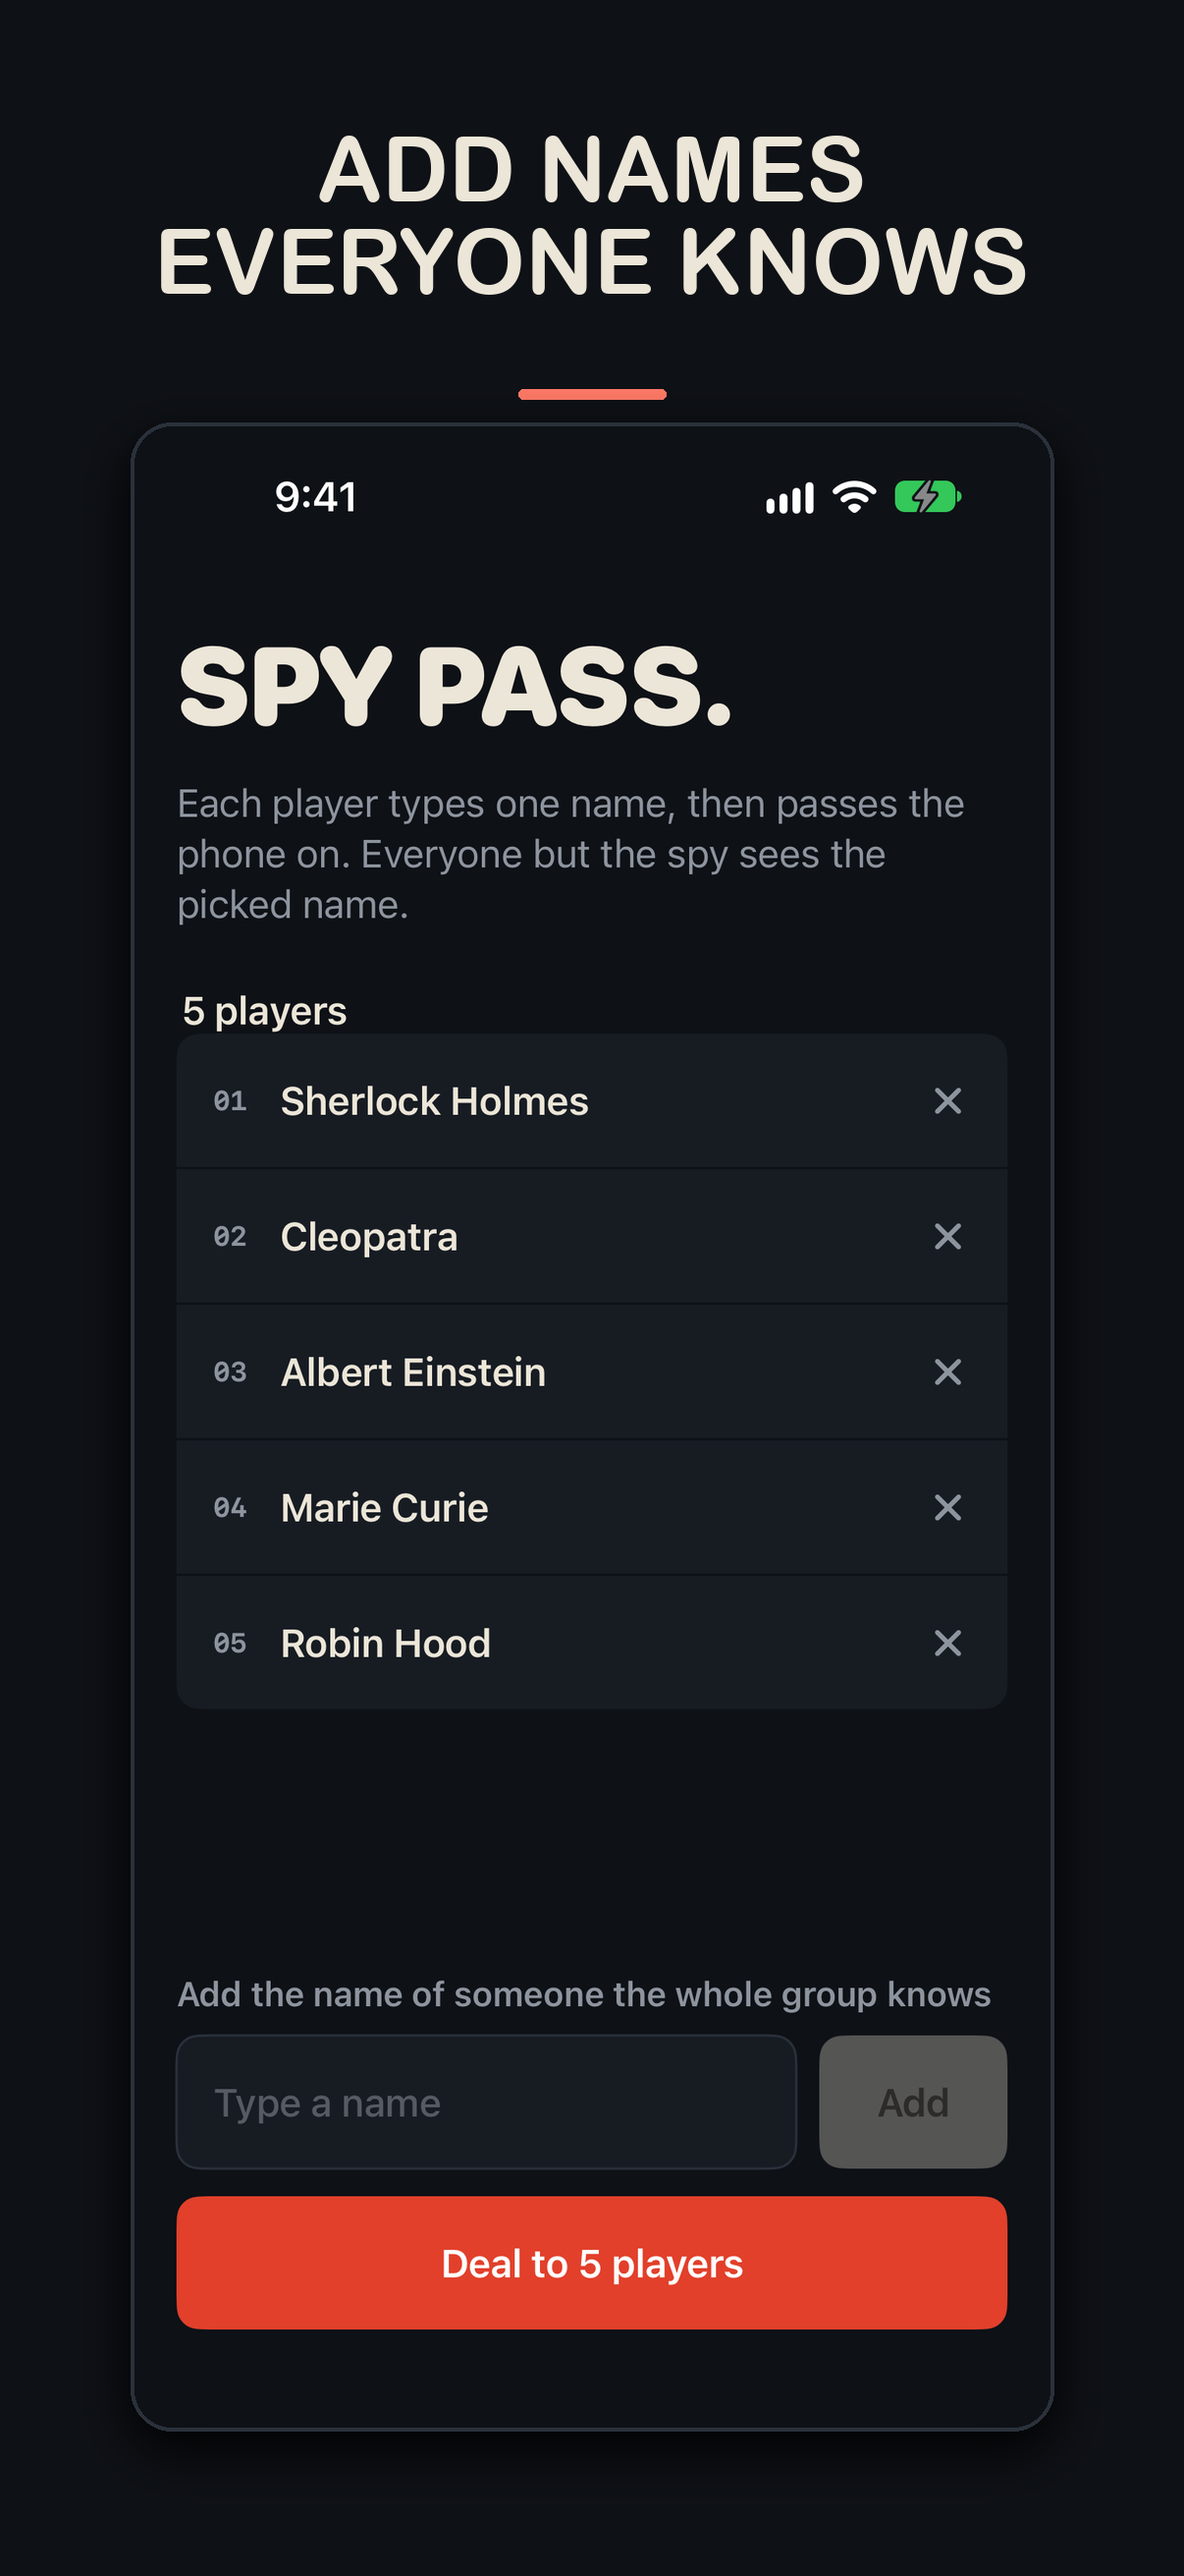
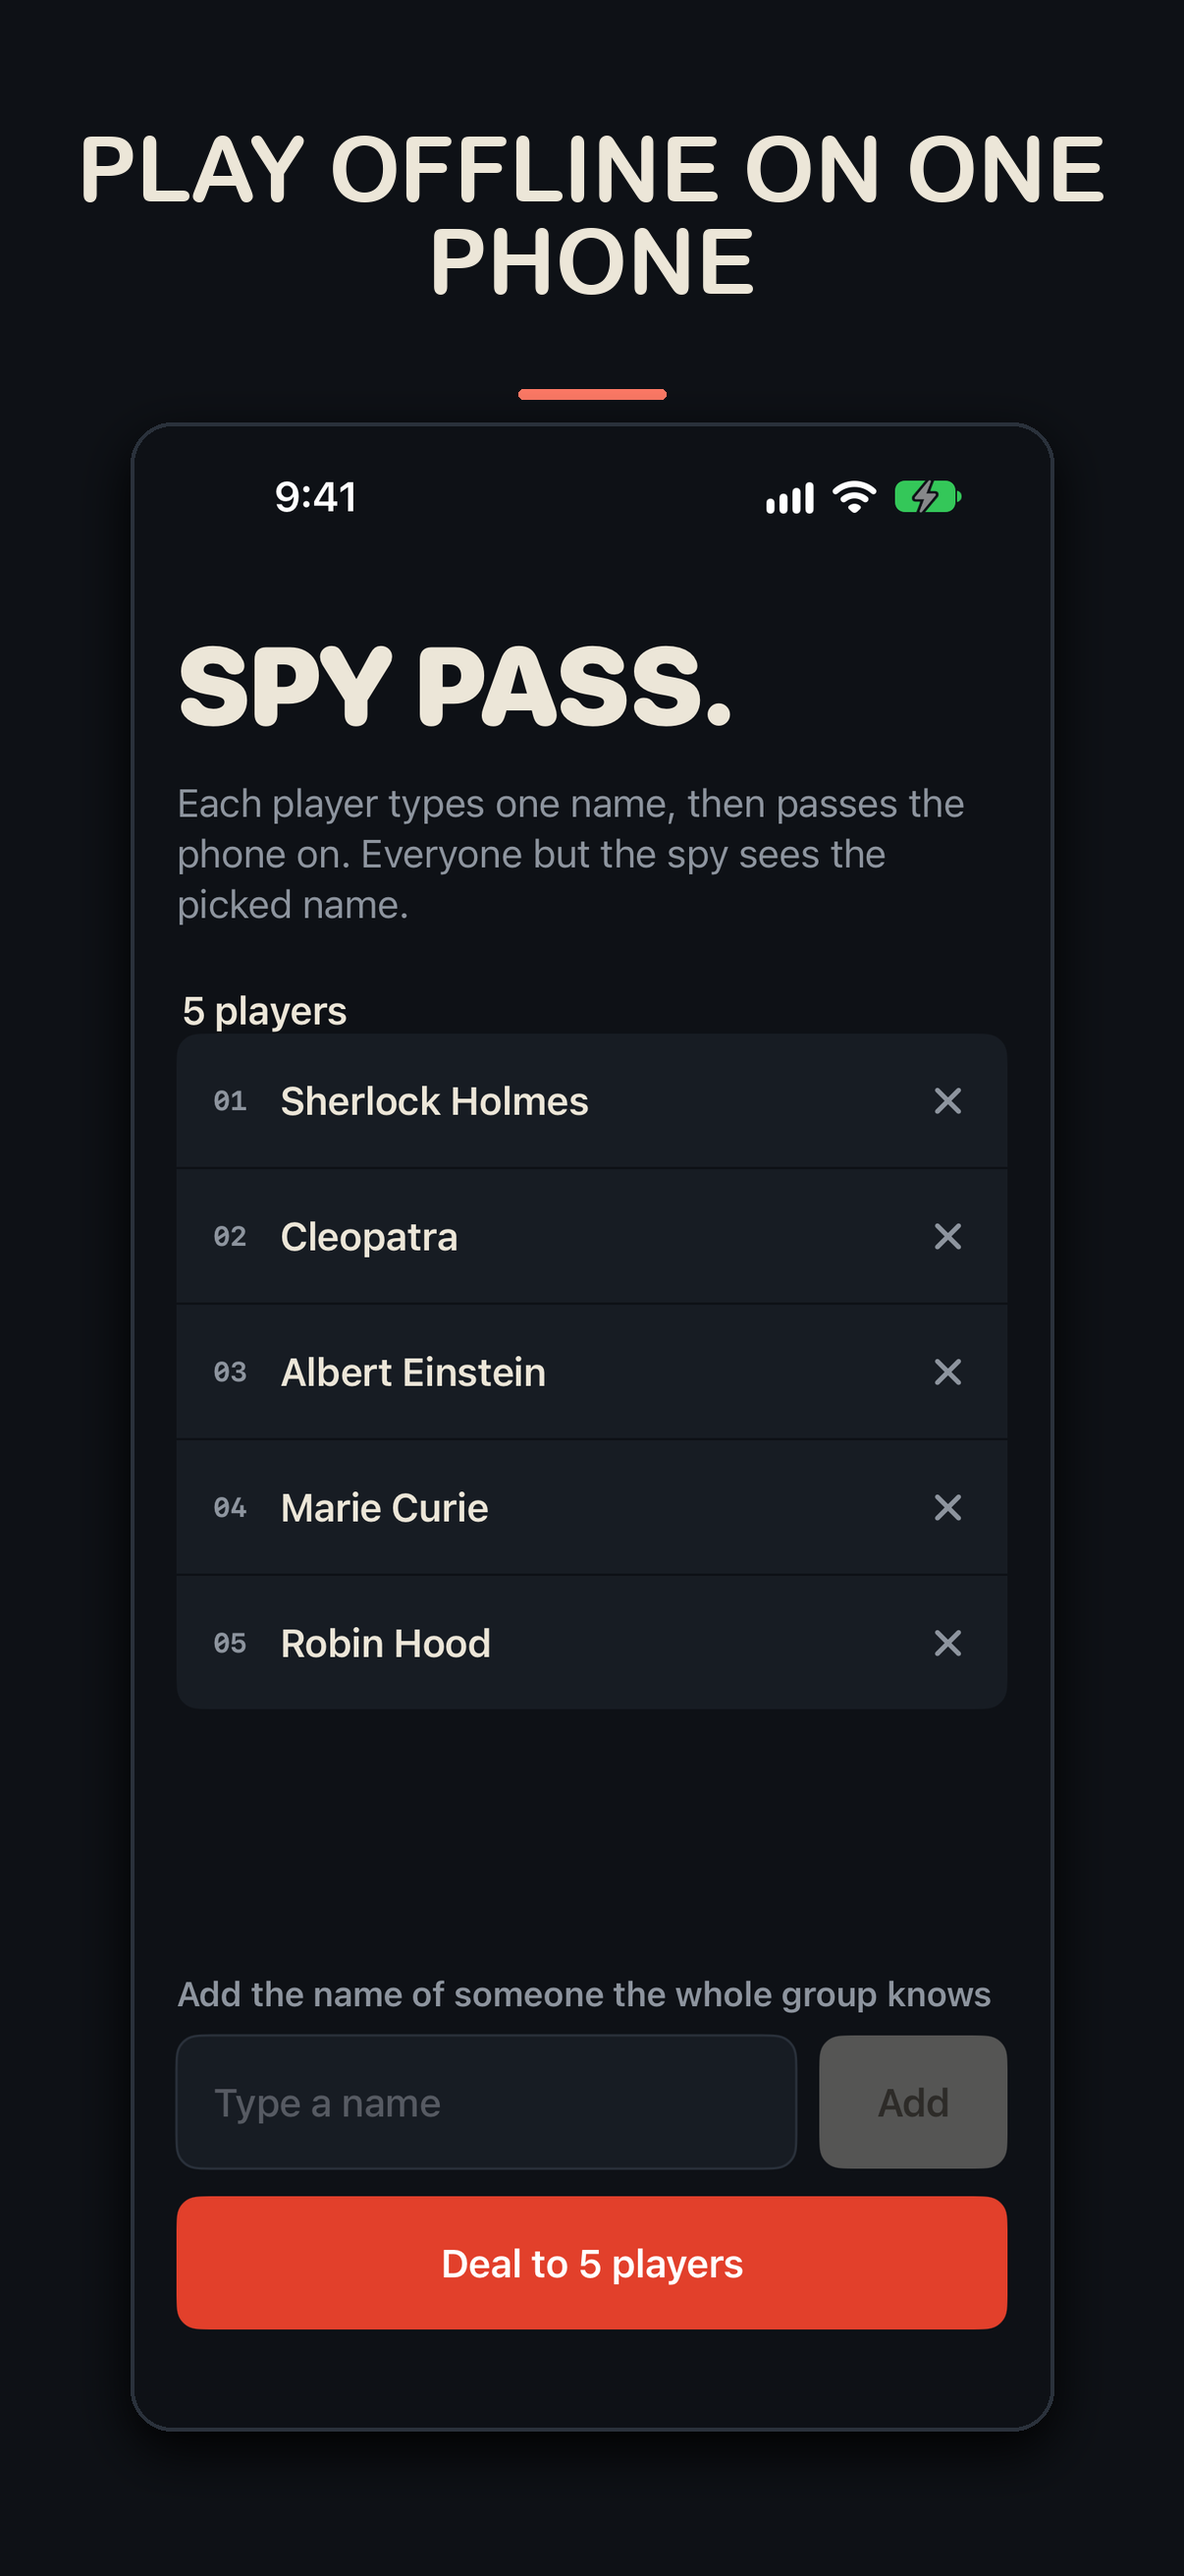
Emphasize offline one-phone play

Changed region(s): [[0.0614, 0.0309, 0.9204, 0.1236]]

diff --git a/AppStore/marketing/generate_marketing_assets.py b/AppStore/marketing/generate_marketing_assets.py
@@ -20,7 +20,7 @@ DISPLAY_FONT = "/System/Library/Fonts/Supplemental/Arial Rounded Bold.ttf"
 BODY_FONT = "/System/Library/Fonts/SFNS.ttf"
 
 SLIDES = [
-    ("01-setup.png", "ADD NAMES EVERYONE KNOWS", "#FF7A66"),
+    ("01-setup.png", "PLAY OFFLINE ON ONE PHONE", "#FF7A66"),
     ("02-hidden-card.png", "PASS THE PHONE", "#5DB7FF"),
     ("03-secret-name.png", "REMEMBER THE NAME", "#B5E04A"),
     ("04-spy-role.png", "ONE PLAYER IS THE SPY", "#FFB938"),
@@ -160,7 +160,7 @@ def create_header(destination: Path, size: tuple[int, int]) -> None:
         draw.text((size[0] * 0.07, size[1] * 0.20), "SPY PASS.", font=title_font, fill=PAPER)
         draw.text(
             (size[0] * 0.075, size[1] * 0.52),
-            "Pass the phone. Find the spy.",
+            "One phone. No internet. Find the spy.",
             font=tagline_font,
             fill=MUTED,
         )
@@ -187,7 +187,7 @@ def create_header(destination: Path, size: tuple[int, int]) -> None:
         icon_x = (size[0] - icon_size) // 2
         icon_y = round(size[1] * 0.25)
         place_with_shadow(canvas, icon, (icon_x, icon_y), radius=26, shadow_offset=18)
-        tagline = "Pass the phone. Find the spy."
+        tagline = "One phone. No internet. Find the spy."
         tagline_box = draw.textbbox((0, 0), tagline, font=tagline_font)
         draw.text(
             ((size[0] - tagline_box[2]) / 2, size[1] * 0.86),
